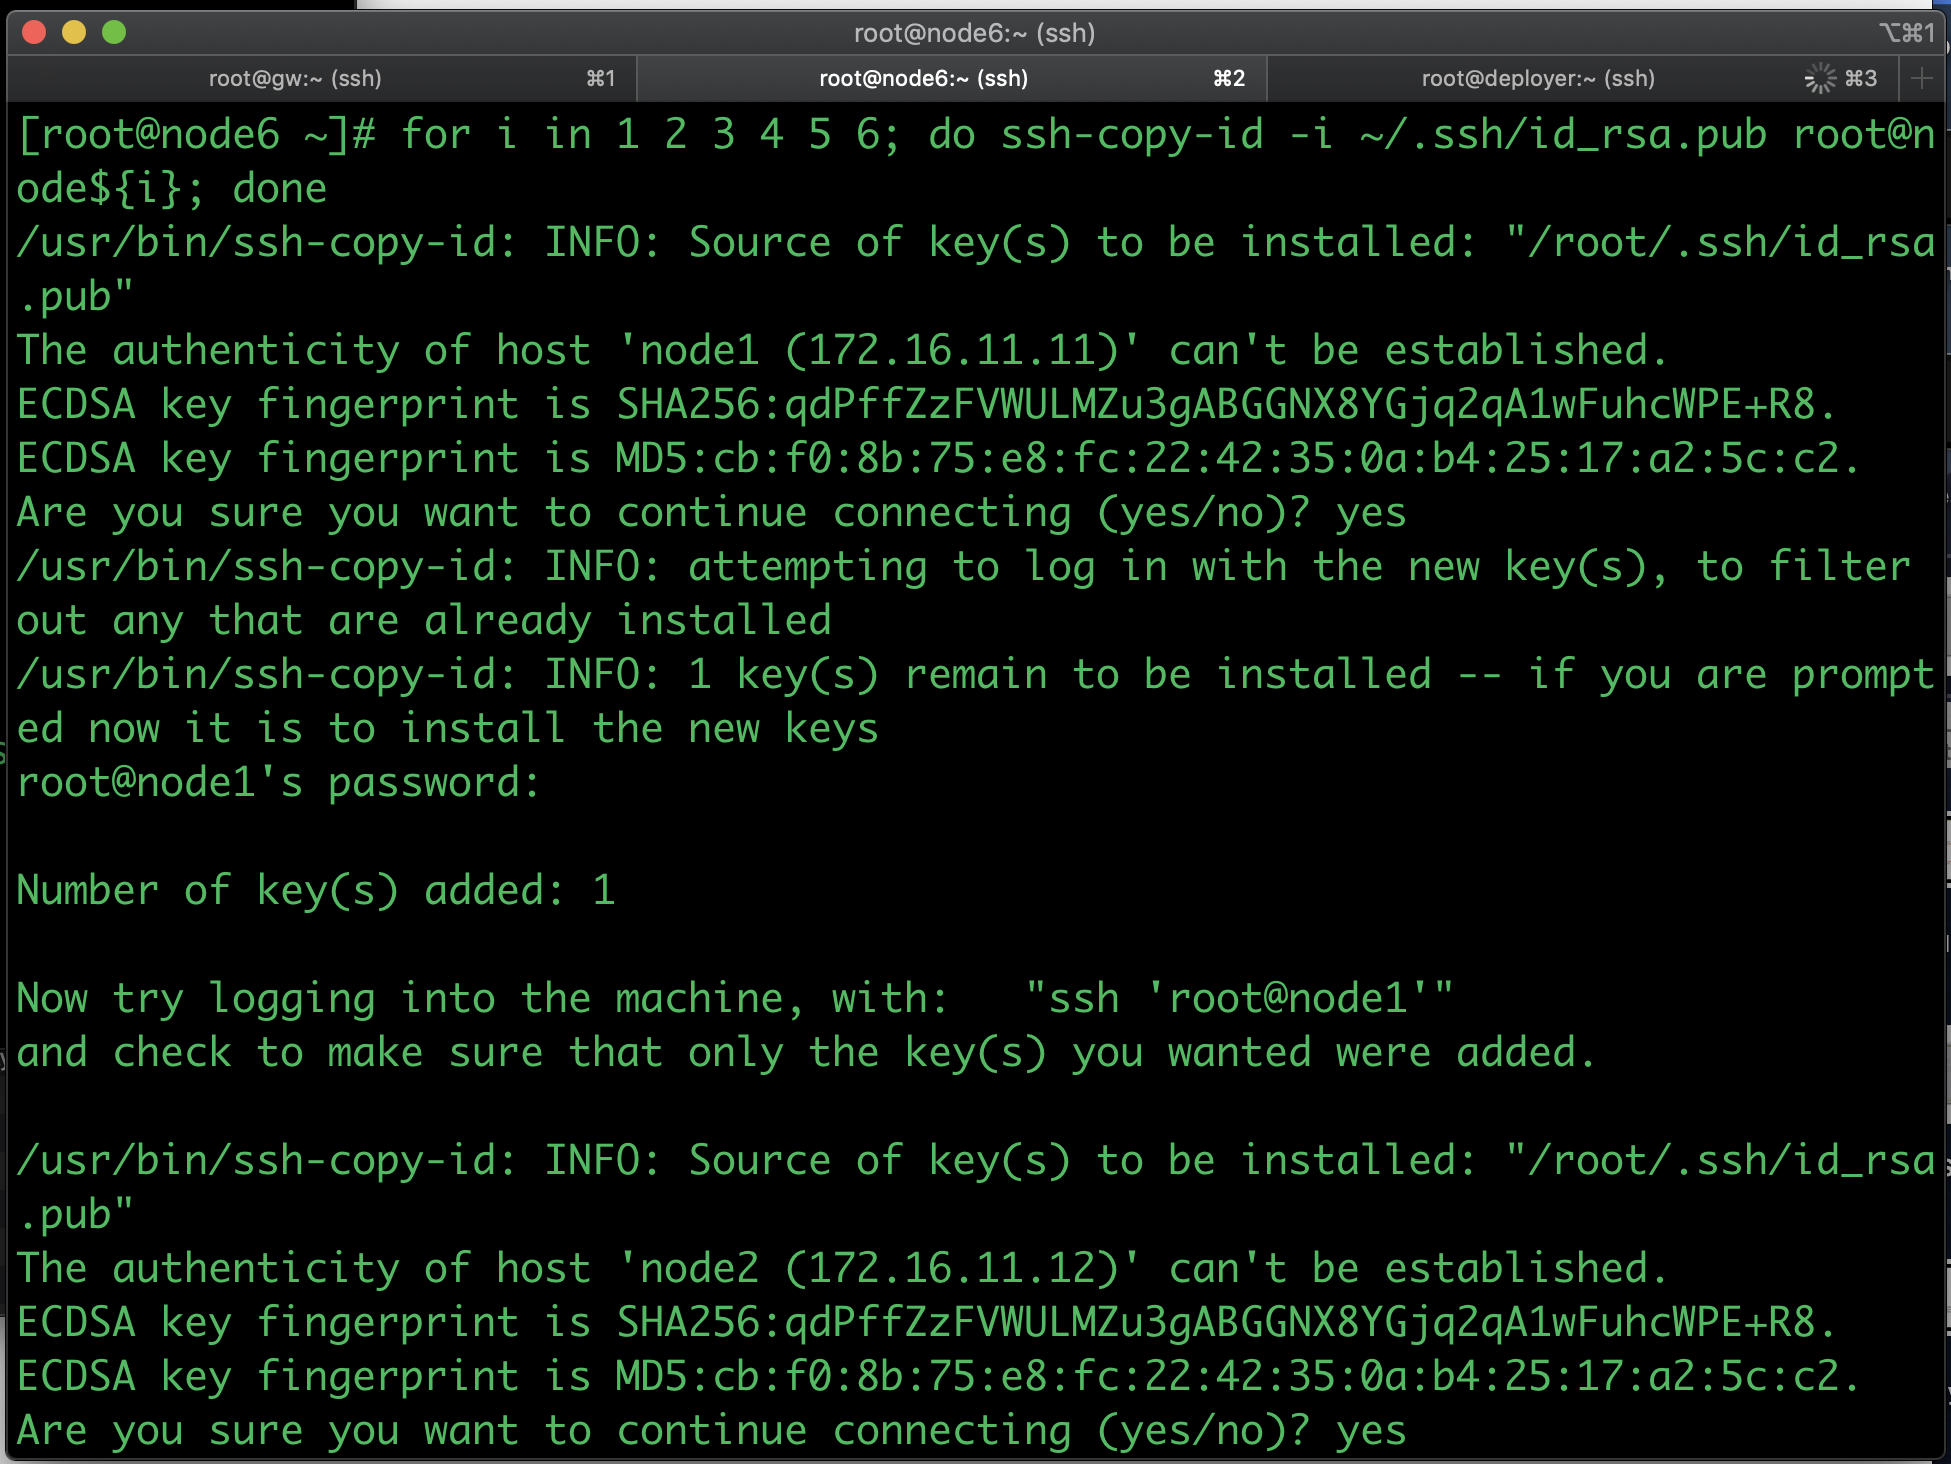
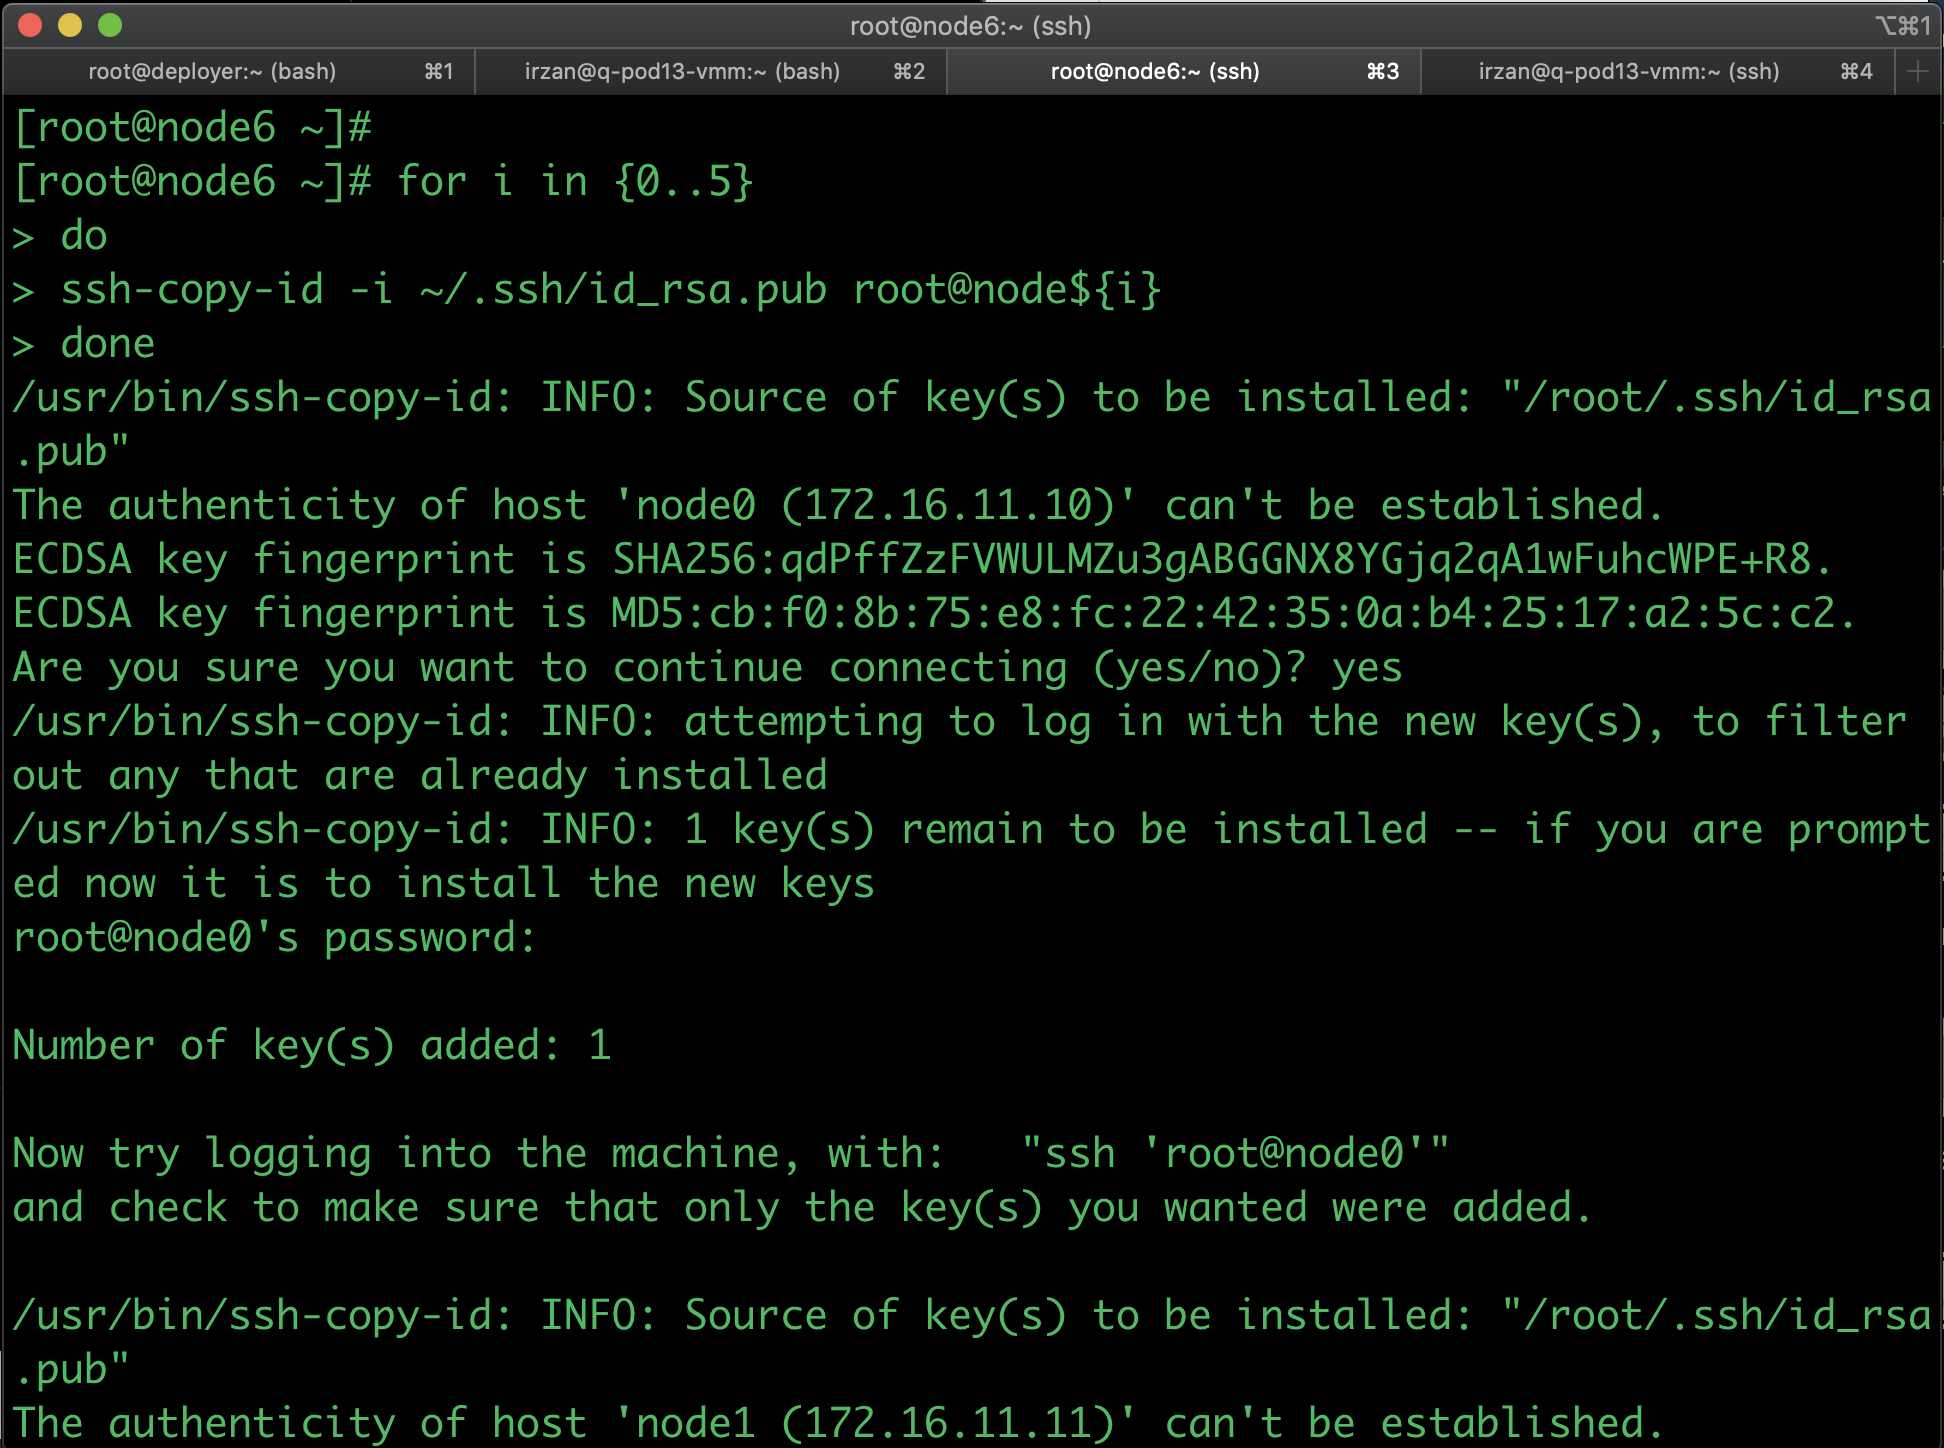
install contrail

Changed region(s): [[0.0, 0.0, 1.0, 1.0], [0.4321, 0.6526, 0.8025, 0.7459], [0.5247, 0.6526, 0.5556, 0.6837]]

diff --git a/contrail/README.md b/contrail/README.md
@@ -73,25 +73,63 @@ You can create your own configuration for the junos devices, or use the followin
     ```
 2. create ssh-key on node6
 ![create_ssh_key_node6](images/create_ssh_key_node6.png)
-3. copy the ssh-key to node1 .. node6 to allow passwordless ssh access from node6 
+3. copy the ssh-key to node0 .. node5 to allow passwordless ssh access from node6 
 ![copy_sshkey](images/copy_sshkey.png)
 command to copy ssh-key
 
 ```
-for i in {1..6}
+for i in {0..5}
 do
 ssh-copy-id -i ~/.ssh/id_rsa.pub root@node${i}
 done
 ```
 
-4. Copy file /etc/hosts to node1 .. node6
+4. Copy file /etc/hosts to node0 .. node5
 ![copy_etc_hosts](images/copy_etc_hosts.png)
 command to copy /etc/hosts
 
 	```
-	for i in {1..6}
+	for i in {0..5}
 	do
 		scp /etc/hosts root@node${i}:/etc/hosts
 	done 
 	```
+## Openstack and Contrail installation using ansible deployer
+1. For contrail 1910, please follow the [manual](https://www.juniper.net/documentation/en_US/contrail19/topics/concept/install-contrail-ocata-kolla-50.html)
 
+The documentation mention that the ansible version required is 2.7.10. 
+but this version may not be available anymore from EPEL repository.
+To install ansible version 2.7.10, please use python pip, do not use yum.
+
+    ```
+    yum -y install epel-release
+    yum -y update
+    yum install git python-pip
+    pip install ansible==2.7.10
+    yum -y remove PyYAML python-requests
+    pip install PyYAML requests
+    yum -y install sshpass
+    ```
+
+![install_epel_release](images/install_epel_release.png)
+![yum_update](images/yum_update.png)
+![install_git_pip](images/install_git_pip.png)
+![install_ansible](images/install_ansible.png)
+![remove_pyyaml_request](images/remove_pyyaml_request.png)
+![install_pyyaml_request](images/install_pyyaml_request.png)
+
+2. Upload the ansible deployer file into node6 and unzip the file
+3. Upload this file [instances.yaml](instances.yaml) to node6, and put it inside directory `contrail-ansible-deployer/config
+![upload2.png](images/upload2.png)
+![unzip_copy.png](images/unzip_copy.png)
+
+4. Get the vga_port of VM node6, and use this information (host and port number) to open VNC session to the console of node6 (using this method to run the playbooks, allow you to disconnect remote access session, and leave the playbook run until it finish)
+![get_vga](images/get_vga.png)
+![vnc1](images/vnc1.png)
+![vnc2](images/vnc2.png)
+![vnc3](images/vnc3.png)
+
+4. Enter contrail-ansible-deployer directory, and start the following command :
+    - ansible-playbook -e orchestrator=openstack -i inventory/ playbooks/configure_instances.yml
+    - ansible-playbook -i inventory/ playbooks/install_openstack.yml
+    - ansible-playbook -e orchestrator=openstack -i inventory/ playbooks/install_contrail.yml
